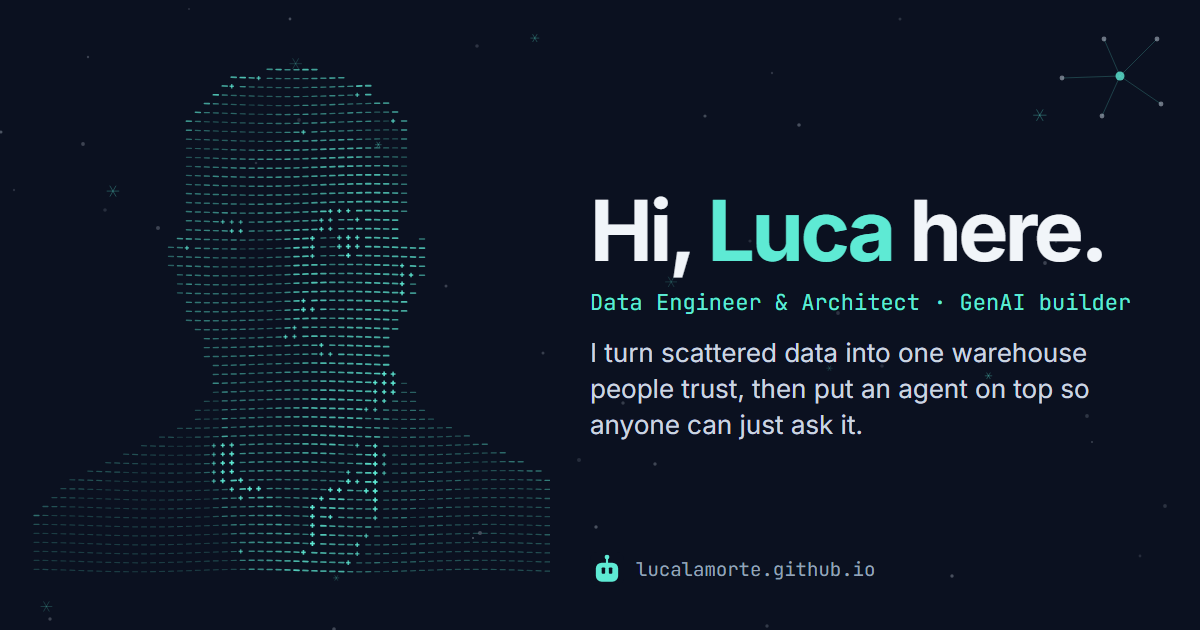
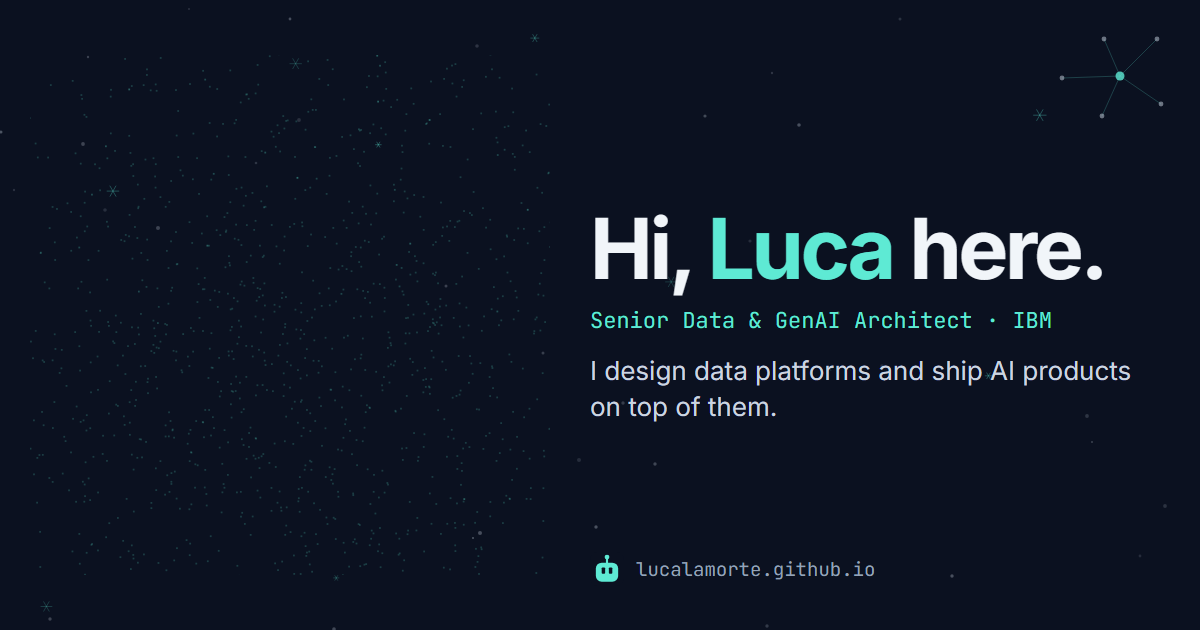
Point the home metadata and preview image at the IBM role

diff --git a/index.html b/index.html
@@ -3,22 +3,22 @@
 <head>
 <meta charset="utf-8">
 <meta name="viewport" content="width=device-width, initial-scale=1">
-<title>Luca Lamorte · Data Engineer &amp; Architect</title>
-<meta name="description" content="Data Engineer &amp; Architect and GenAI builder. I turn scattered data into one warehouse people trust, then put an agent on top so anyone can just ask it.">
+<title>Luca Lamorte · Senior Data &amp; GenAI Architect</title>
+<meta name="description" content="Senior Data Architect at IBM. I design data platforms on Snowflake and dbt, and ship AI products on top of them.">
 <link rel="canonical" href="https://lucalamorte.github.io/">
 <meta property="og:type" content="website">
 <meta property="og:site_name" content="Luca Lamorte">
-<meta property="og:title" content="Luca Lamorte · Data Engineer &amp; Architect">
-<meta property="og:description" content="Data Engineer &amp; Architect and GenAI builder. I turn scattered data into one warehouse people trust, then put an agent on top so anyone can just ask it.">
+<meta property="og:title" content="Luca Lamorte · Senior Data &amp; GenAI Architect">
+<meta property="og:description" content="Senior Data Architect at IBM. I design data platforms on Snowflake and dbt, and ship AI products on top of them.">
 <meta property="og:url" content="https://lucalamorte.github.io/">
 <meta property="og:image" content="https://lucalamorte.github.io/assets/og/home.png">
-<meta property="og:image:alt" content="Luca Lamorte · Data Engineer &amp; Architect">
+<meta property="og:image:alt" content="Luca Lamorte · Senior Data &amp; GenAI Architect">
 <meta property="og:image:width" content="1200">
 <meta property="og:image:height" content="630">
 <meta property="og:locale" content="en_US">
 <meta name="twitter:card" content="summary_large_image">
-<meta name="twitter:title" content="Luca Lamorte · Data Engineer &amp; Architect">
-<meta name="twitter:description" content="Data Engineer &amp; Architect and GenAI builder. I turn scattered data into one warehouse people trust, then put an agent on top so anyone can just ask it.">
+<meta name="twitter:title" content="Luca Lamorte · Senior Data &amp; GenAI Architect">
+<meta name="twitter:description" content="Senior Data Architect at IBM. I design data platforms on Snowflake and dbt, and ship AI products on top of them.">
 <meta name="twitter:image" content="https://lucalamorte.github.io/assets/og/home.png">
 <meta name="author" content="Luca Lamorte">
 <meta name="theme-color" content="#0b1120">
